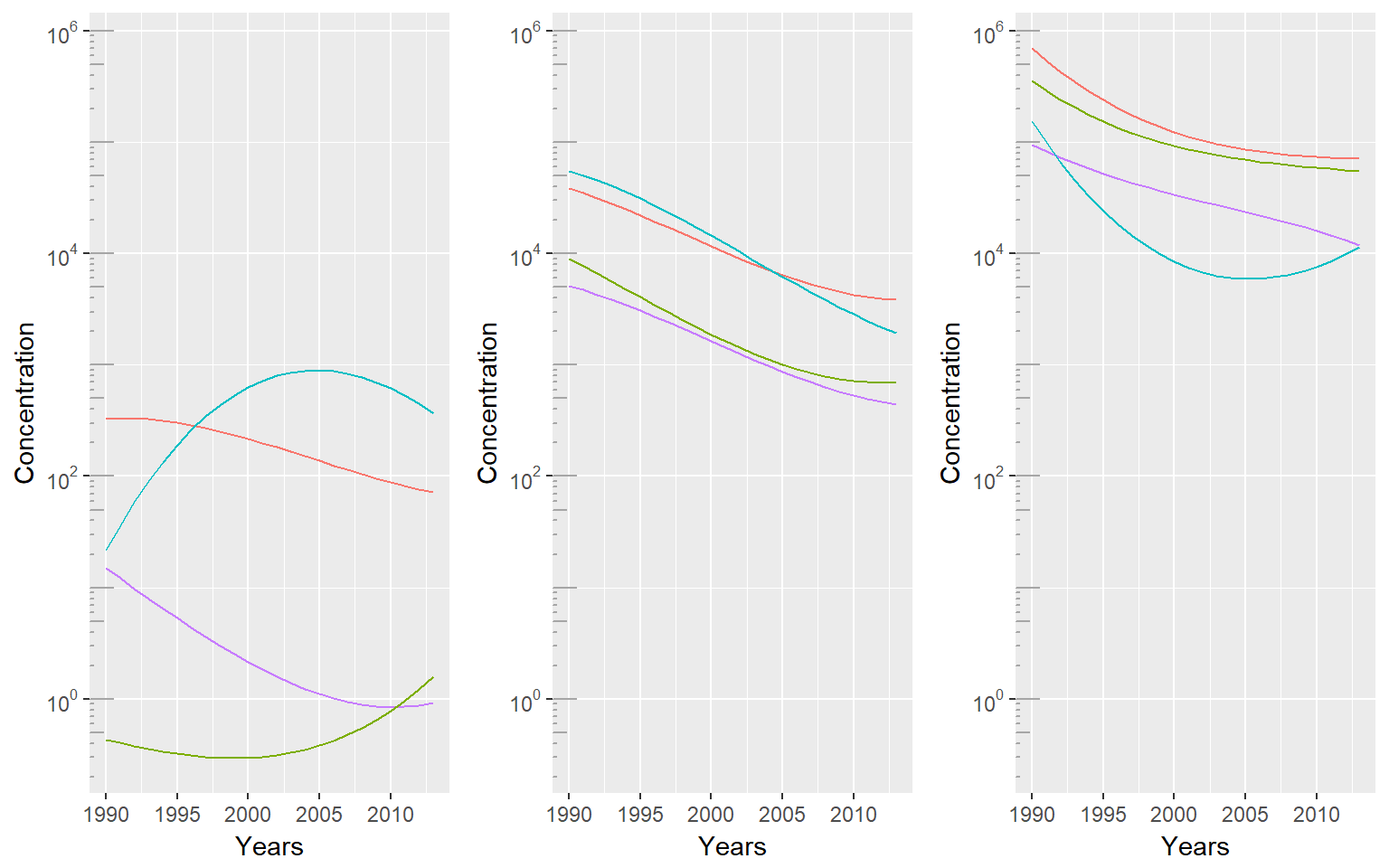
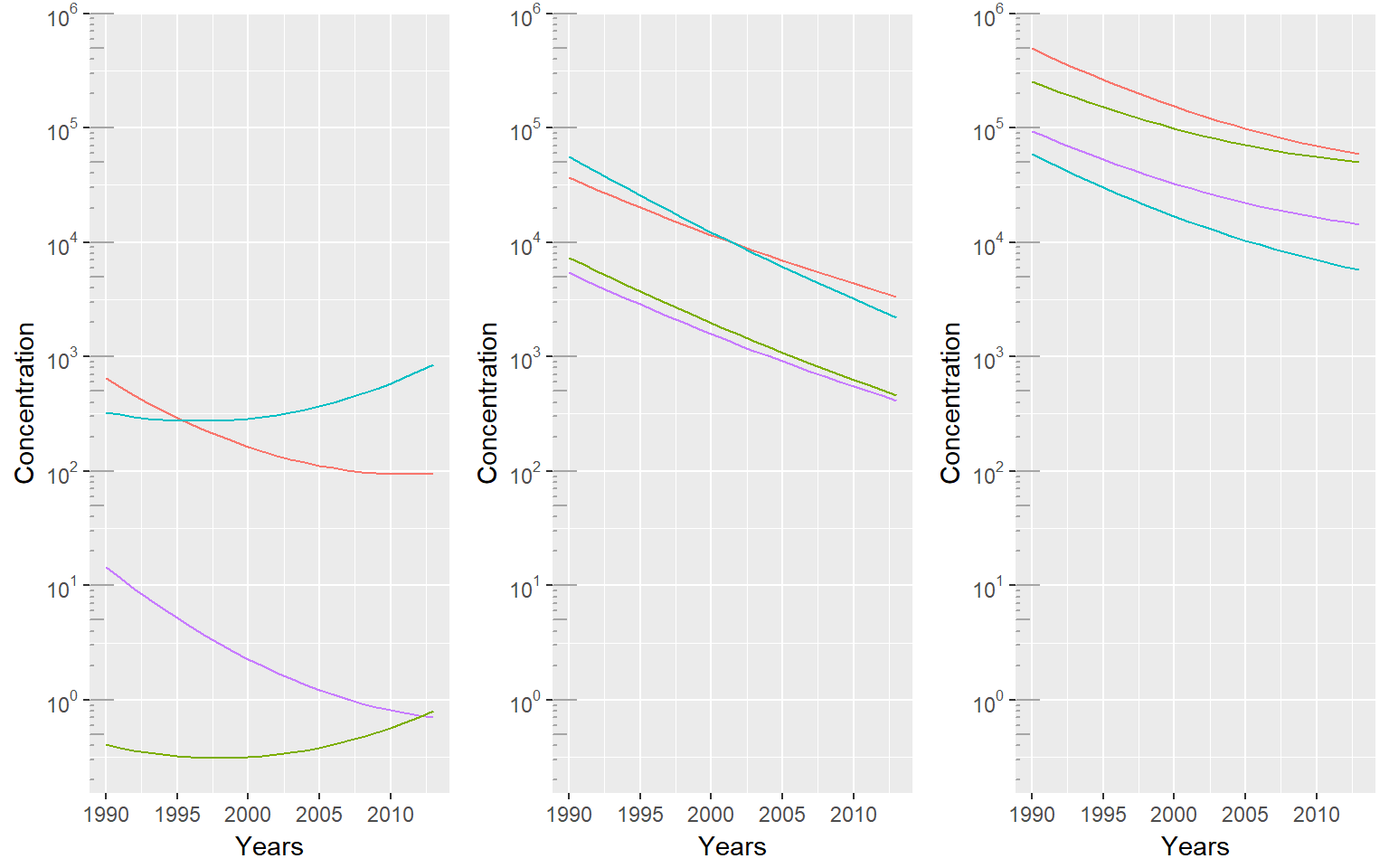
added_gif

diff --git a/docs/4-organization.html b/docs/4-organization.html
@@ -93,10 +93,10 @@
 </ul></li>
 <li class="chapter" data-level="4" data-path="4-organization.html"><a href="4-organization.html"><i class="fa fa-check"></i><b>4</b> Results</a><ul>
 <li class="chapter" data-level="4.1" data-path="4-organization.html"><a href="4-organization.html#toxicity-trends"><i class="fa fa-check"></i><b>4.1</b> Toxicity Trends</a></li>
-<li class="chapter" data-level="4.2" data-path="4-organization.html"><a href="4-organization.html#trends-in-minority-toxicity-burden"><i class="fa fa-check"></i><b>4.2</b> Trends in Minority Toxicity Burden</a></li>
-<li class="chapter" data-level="4.3" data-path="4-organization.html"><a href="4-organization.html#simulating-changes"><i class="fa fa-check"></i><b>4.3</b> Simulating Changes</a></li>
-<li class="chapter" data-level="4.4" data-path="4-organization.html"><a href="4-organization.html#interacting-risk-cases"><i class="fa fa-check"></i><b>4.4</b> Interacting Risk Cases</a></li>
-<li class="chapter" data-level="4.5" data-path="4-organization.html"><a href="4-organization.html#geographic-changes-in-exposure"><i class="fa fa-check"></i><b>4.5</b> Geographic Changes in Exposure</a></li>
+<li class="chapter" data-level="4.2" data-path="4-organization.html"><a href="4-organization.html#geography-of-toxicity-trends"><i class="fa fa-check"></i><b>4.2</b> Geography of Toxicity Trends</a></li>
+<li class="chapter" data-level="4.3" data-path="4-organization.html"><a href="4-organization.html#trends-in-minority-toxicity-burden"><i class="fa fa-check"></i><b>4.3</b> Trends in Minority Toxicity Burden</a></li>
+<li class="chapter" data-level="4.4" data-path="4-organization.html"><a href="4-organization.html#simulating-changes"><i class="fa fa-check"></i><b>4.4</b> Simulating Changes</a></li>
+<li class="chapter" data-level="4.5" data-path="4-organization.html"><a href="4-organization.html#interacting-risk-cases"><i class="fa fa-check"></i><b>4.5</b> Interacting Risk Cases</a></li>
 <li class="chapter" data-level="4.6" data-path="4-organization.html"><a href="4-organization.html#quantile-regression"><i class="fa fa-check"></i><b>4.6</b> Quantile Regression</a></li>
 </ul></li>
 <li class="appendix"><span><b>Appendix</b></span></li>
@@ -139,8 +139,18 @@
 <p>Many of the locations that arise as especially toxic in the data are assuredly so. High Point, NC is consistently one of the most toxic tracts in the early 2000’s, as confirmed by <a href="https://cfpub.epa.gov/si/si_public_record_Report.cfm?dirEntryID=45198">EPA reports</a> identifying it as a location prime for testing toxicity abatement measures. Tracts outside of Salt Lake City commonly known for acting as <a href="http://www.nytimes.com/2002/10/20/us/utah-county-s-toxic-tradition-is-under-threat.html">dumping grounds</a> are consistently ranked as toxic in the early 2000’s. Mobile, AL, whose <a href="https://19january2017snapshot.epa.gov/enforcement/case-summary-epa-funded-sites-and-communities-chemtura-bankruptcy-settlements_.html#stauffer">3 superfund sites</a> were proposed in the early 1990’s, routinely ranks as toxic over that time period.</p>
 <p>On the other side of the coin, there are many known toxic events and locations that fail to ever reach the top 5% of toxic tracts, of which Flint, MI, and the Houston major superfund site are good examples.</p>
 </div>
+<div id="geography-of-toxicity-trends" class="section level2">
+<h2><span class="header-section-number">4.2</span> Geography of Toxicity Trends</h2>
+<p>Toxic exposure has been changing dramatically in the US, but the trends it follows have remained similar. In the gif below, we show toxicity across the US from 2010 to 2014.</p>
+<div class="figure">
+<img src="https://media.giphy.com/media/vFKqnCdLPNOKc/giphy.gif" alt="Gif of toxicity in America from 2010 to 2014." />
+<p class="caption">Gif of toxicity in America from 2010 to 2014.</p>
+</div>
+<p>Though we see impressive reductions over that time, the overall geographic trends of toxicity remain constant. Each region maintains its overall toxicity range, and toxicity wells appear to stay constant. Given the infrastructure required to build up manufacturing, a large part of TRI, the consistency across time is reasonable.</p>
+<p>The toxicity wells we see in the image are interestingly familiar.</p>
+</div>
 <div id="trends-in-minority-toxicity-burden" class="section level2">
-<h2><span class="header-section-number">4.2</span> Trends in Minority Toxicity Burden</h2>
+<h2><span class="header-section-number">4.3</span> Trends in Minority Toxicity Burden</h2>
 <p>Using data at the tract level, we assign the tract concentration to the counts of each group in the tract. By assigning toxicity for each tract, we build four distributions: toxicity for the white population, toxicity for the black population, toxicity for the hispanic population, and toxicity for all other groups. In this case, hispanic is not a mutually exclusive group, and the race groups may contain ethnically hispanic individuals.</p>
 <p>For each of the distributions, the 5th, 50th, and 95th percentiles are calculated for each time period. In the case of toxicity, the 5th and 95th percentiles are especially of interest, as they represent the non-polluted neighborhoods that each group has access to and the level of pollution trap that each group falls in to. Clearly, for all variables, lower toxicity is better.</p>
 <p>Plots describing the trends for each quantile are shown below. On the left is the log toxicity for the quantile over time. On the right is the toxicity minorities experience relative to the white distribution. These values are computed as the net toxicity of the given quantile for a group divided by the net toxicity of the quantile for the white distribution.</p>
@@ -157,7 +167,7 @@
 <p>In essense we are seeing the “rich getting richer” phenomenon in the 5th percentile of the white distribution. Those that already have access to clean communities are seeing improved toxicity, with those who weren’t already in clean communities unable to catch up, and locked out of the lowest toxicity communities.</p>
 </div>
 <div id="simulating-changes" class="section level2">
-<h2><span class="header-section-number">4.3</span> Simulating Changes</h2>
+<h2><span class="header-section-number">4.4</span> Simulating Changes</h2>
 <p>Being able to build the true distributions that each group experiences over time allows us to see how relative toxicity burden has changed over time. Yet the changes presented in the analysis above are solely the net changes experienced by each group. Given minorities are more likely to be in the right tail of the distribution, any compression of that tail would result in both a net improvement for minority groups and a relative improvement to the white distribution. Those changes, though positive, don’t represent a true change in the position minorities hold in the distribution, as they are still stuck in the percentile of the distribution, but the distribution has shifted favorably.</p>
 <p>To find how much of the change is attributable to changes of minority position, we use the simulation method discussed in section 3. By holding the percentile of each individual constant, but applying it to the new distribution, we can see what the minority distribution would like if the minority position within the overall distribution had not changed.</p>
 <p>Improvement will only represent true environmental justice when all groups are equally likely to be represented at any given quantile, not when the distribution is compressed enough that differences are negligible.</p>
@@ -172,111 +182,14 @@
 <p><img src="thesis_files/figure-html/densityplots-1.png" width="960" style="display: block; margin: auto;" /></p>
 </div>
 <div id="interacting-risk-cases" class="section level2">
-<h2><span class="header-section-number">4.4</span> Interacting Risk Cases</h2>
-</div>
-<div id="geographic-changes-in-exposure" class="section level2">
-<h2><span class="header-section-number">4.5</span> Geographic Changes in Exposure</h2>
+<h2><span class="header-section-number">4.5</span> Interacting Risk Cases</h2>
 </div>
 <div id="quantile-regression" class="section level2">
 <h2><span class="header-section-number">4.6</span> Quantile Regression</h2>
-<pre><code>      tau= 0.05 tau= 0.50 tau= 0.95
-1   2.800828831  8.718791 11.632489
-2   2.554100344  8.589618 11.522855
-3   2.318131772  8.462154 11.415381
-4   2.092923116  8.336401 11.310067
-5   1.878474376  8.212357 11.206913
-6   1.674785552  8.090024 11.105920
-7   1.481856644  7.969401 11.007087
-8   1.299687652  7.850487 10.910414
-9   1.128278575  7.733284 10.815901
-10  0.967629415  7.617790 10.723548
-11  0.817740170  7.504007 10.633355
-12  0.678610841  7.391933 10.545323
-13  0.550241428  7.281570 10.459450
-14  0.432631931  7.172916 10.375738
-15  0.325782349  7.065972 10.294186
-16  0.229692684  6.960739 10.214794
-17  0.144362934  6.857215 10.137562
-18  0.069793101  6.755402 10.062490
-19  0.005983183  6.655298  9.989579
-20 -0.047066819  6.556904  9.918827
-21 -0.089356905  6.460220  9.850236
-22 -0.120887076  6.365247  9.783805
-23 -0.141657330  6.271983  9.719534
-24 -0.151667669  6.180429  9.657423
-25  5.653440531 10.143539 12.972221
-26  5.616416124 10.032272 12.759556
-27  5.575938257  9.922037 12.558581
-28  5.532006932  9.812836 12.369297
-29  5.484622148  9.704667 12.191705
-30  5.433783904  9.597531 12.025803
-31  5.379492201  9.491428 11.871593
-32  5.321747040  9.386357 11.729074
-33  5.260548419  9.282320 11.598245
-34  5.195896339  9.179316 11.479108
-35  5.127790800  9.077344 11.371662
-36  5.056231802  8.976405 11.275907
-37  4.981219345  8.876499 11.191844
-38  4.902753429  8.777626 11.119471
-39  4.820834054  8.679786 11.058789
-40  4.735461219  8.582978 11.009799
-41  4.646634926  8.487204 10.972499
-42  4.554355174  8.392462 10.946891
-43  4.458621962  8.298753 10.932974
-44  4.359435292  8.206077 10.930747
-45  4.256795162  8.114434 10.940212
-46  4.150701573  8.023824 10.961368
-47  4.041154525  7.934246 10.994215
-48  3.928154018  7.845701 11.038754
-49 -0.735321766  8.941427 12.639729
-50 -0.835040104  8.788694 12.445432
-51 -0.918782602  8.638778 12.262263
-52 -0.986549257  8.491681 12.090221
-53 -1.038340072  8.347401 11.929308
-54 -1.074155044  8.205939 11.779522
-55 -1.093994176  8.067295 11.640864
-56 -1.097857465  7.931469 11.513334
-57 -1.085744914  7.798461 11.396932
-58 -1.057656521  7.668271 11.291658
-59 -1.013592286  7.540899 11.197512
-60 -0.953552210  7.416345 11.114493
-61 -0.877536293  7.294608 11.042603
-62 -0.785544534  7.175690 10.981840
-63 -0.677576933  7.059589 10.932206
-64 -0.553633492  6.946306 10.893699
-65 -0.413714209  6.835842 10.866320
-66 -0.257819084  6.728195 10.850069
-67 -0.085948118  6.623366 10.844946
-68  0.101898690  6.521355 10.850950
-69  0.305721339  6.422162 10.868083
-70  0.525519829  6.325786 10.896344
-71  0.761294161  6.232229 10.935732
-72  1.013044335  6.141489 10.986248
-73  3.561941907  9.854712 11.968528
-74  3.817538224  9.750139 11.551432
-75  4.055000182  9.643074 11.161307
-76  4.274327782  9.533516 10.798153
-77  4.475521024  9.421464 10.461970
-78  4.658579907  9.306921 10.152759
-79  4.823504433  9.189884  9.870519
-80  4.970294601  9.070354  9.615251
-81  5.098950411  8.948332  9.386953
-82  5.209471863  8.823817  9.185627
-83  5.301858957  8.696809  9.011272
-84  5.376111692  8.567308  8.863888
-85  5.432230070  8.435314  8.743476
-86  5.470214089  8.300828  8.650034
-87  5.490063751  8.163849  8.583564
-88  5.491779054  8.024376  8.544065
-89  5.475360000  7.882411  8.531538
-90  5.440806587  7.737954  8.545982
-91  5.388118817  7.591003  8.587397
-92  5.317296688  7.441559  8.655783
-93  5.228340201  7.289623  8.751140
-94  5.121249356  7.135194  8.873469
-95  4.996024154  6.978272  9.022769
-96  4.852664593  6.818857  9.199040</code></pre>
-<p><img src="thesis_files/figure-html/quantreg-1.png" width="768" style="display: block; margin: auto;" /><img src="thesis_files/figure-html/quantreg-2.png" width="768" style="display: block; margin: auto;" /><img src="thesis_files/figure-html/quantreg-3.png" width="768" style="display: block; margin: auto;" /><img src="thesis_files/figure-html/quantreg-4.png" width="768" style="display: block; margin: auto;" /><img src="thesis_files/figure-html/quantreg-5.png" width="768" style="display: block; margin: auto;" /></p>
+<p>Previous sections have focused on teasing apart patterns in the vast amounts of data we have, attempting to find differences in toxicity experienced by minority groups. We find large differences in the toxicity experienced, but may be limited by the choices in division we make. Given we only investigate the variables that we suspect may have a relationship with toxicity, there are likley patterns in teh data that aren’t being examined.</p>
+<p>In order to better tease out relationships in the data, and for easy interpretation of coefficients, a functionally similar analysis can be done with quantile regression, focusing on the computed parameters as indicators of the differences in experienced toxicity.</p>
+<p>To illustrate the form of model this could take, we build preliminary quantile regression models on the 5th, 50th, and 95th percentiles of the toxicity distribution. To predict log toxicity, we use the year, demographic information, population density as well as quadratic terms. The predictions shown for each race or ethnicity group are fairly consistent with the results shown above. <img src="thesis_files/figure-html/quantreg-1.png" width="768" style="display: block; margin: auto;" /></p>
+<p>By adding additional block level data to this regression and testing model fit more rigorously, we may be able to discuss the magnitude of toxicity differences that are attributable to race, and will be more informed on the other factors that hold importance in predicting toxicity. Above sections address the empirical reduction in toxicity and the reduction amount attributable to shifts of minority placement in the distribution. An approach able to take it a step further and find the differences attributable to race would add significant value.</p>
 
 </div>
 </div>

diff --git a/docs/A-annotated-bibliography.html b/docs/A-annotated-bibliography.html
@@ -93,10 +93,10 @@
 </ul></li>
 <li class="chapter" data-level="4" data-path="4-organization.html"><a href="4-organization.html"><i class="fa fa-check"></i><b>4</b> Results</a><ul>
 <li class="chapter" data-level="4.1" data-path="4-organization.html"><a href="4-organization.html#toxicity-trends"><i class="fa fa-check"></i><b>4.1</b> Toxicity Trends</a></li>
-<li class="chapter" data-level="4.2" data-path="4-organization.html"><a href="4-organization.html#trends-in-minority-toxicity-burden"><i class="fa fa-check"></i><b>4.2</b> Trends in Minority Toxicity Burden</a></li>
-<li class="chapter" data-level="4.3" data-path="4-organization.html"><a href="4-organization.html#simulating-changes"><i class="fa fa-check"></i><b>4.3</b> Simulating Changes</a></li>
-<li class="chapter" data-level="4.4" data-path="4-organization.html"><a href="4-organization.html#interacting-risk-cases"><i class="fa fa-check"></i><b>4.4</b> Interacting Risk Cases</a></li>
-<li class="chapter" data-level="4.5" data-path="4-organization.html"><a href="4-organization.html#geographic-changes-in-exposure"><i class="fa fa-check"></i><b>4.5</b> Geographic Changes in Exposure</a></li>
+<li class="chapter" data-level="4.2" data-path="4-organization.html"><a href="4-organization.html#geography-of-toxicity-trends"><i class="fa fa-check"></i><b>4.2</b> Geography of Toxicity Trends</a></li>
+<li class="chapter" data-level="4.3" data-path="4-organization.html"><a href="4-organization.html#trends-in-minority-toxicity-burden"><i class="fa fa-check"></i><b>4.3</b> Trends in Minority Toxicity Burden</a></li>
+<li class="chapter" data-level="4.4" data-path="4-organization.html"><a href="4-organization.html#simulating-changes"><i class="fa fa-check"></i><b>4.4</b> Simulating Changes</a></li>
+<li class="chapter" data-level="4.5" data-path="4-organization.html"><a href="4-organization.html#interacting-risk-cases"><i class="fa fa-check"></i><b>4.5</b> Interacting Risk Cases</a></li>
 <li class="chapter" data-level="4.6" data-path="4-organization.html"><a href="4-organization.html#quantile-regression"><i class="fa fa-check"></i><b>4.6</b> Quantile Regression</a></li>
 </ul></li>
 <li class="appendix"><span><b>Appendix</b></span></li>
@@ -184,7 +184,14 @@
 <li>Finds large difference in the toxicity experienced by black individuals.</li>
 <li>Higher incomes are associated with lower toxicity in the destinations of individuals, especially for black and hispanic individuals, who only appear to move to lower toxicity areas when they have especially high incomes.</li>
 </ul></li>
-<li><p>Pais J., Crowder K. &amp; Downey L. (2013). Unequal Trajectories: Racial and Class Differences in Residential Exposure to Industrial Hazard. <em>Social Forces, 92</em>(3). pp. 1189-1215</p></li>
+<li>Pais J., Crowder K. &amp; Downey L. (2013). Unequal Trajectories: Racial and Class Differences in Residential Exposure to Industrial Hazard. <em>Social Forces, 92</em>(3). pp. 1189-1215
+<ul>
+<li>Focuses on differences via different residential sorting and toxic facility siting.</li>
+<li>Statistical methodology used is a latent class growth analysis.</li>
+<li>Data used is longitudinal xyz and neighborhood level pollution.</li>
+<li>Found large difference in pollution exposure by race. Also found that minorities were more likely to experience persistance in being highly exposed.</li>
+<li>Examined how that finding relates to having access to the suburbs, and found that even controlling for suburban attainment, economic status, and ability to move, there was still a racial difference.</li>
+</ul></li>
 <li>Szasz, A., &amp; Meuser, M. (1997). Environmental inequalities: Literature review and proposals for new directions in research and theory. <em>Current sociology, 45</em>(3), 99-120.
 <ul>
 <li>Environmental justice work brought the “tactics and rhetoric of the Civil Rights movement to bear on an environmental issue”</li>

diff --git a/docs/1-env-justice.html b/docs/1-env-justice.html
@@ -93,10 +93,10 @@
 </ul></li>
 <li class="chapter" data-level="4" data-path="4-organization.html"><a href="4-organization.html"><i class="fa fa-check"></i><b>4</b> Results</a><ul>
 <li class="chapter" data-level="4.1" data-path="4-organization.html"><a href="4-organization.html#toxicity-trends"><i class="fa fa-check"></i><b>4.1</b> Toxicity Trends</a></li>
-<li class="chapter" data-level="4.2" data-path="4-organization.html"><a href="4-organization.html#trends-in-minority-toxicity-burden"><i class="fa fa-check"></i><b>4.2</b> Trends in Minority Toxicity Burden</a></li>
-<li class="chapter" data-level="4.3" data-path="4-organization.html"><a href="4-organization.html#simulating-changes"><i class="fa fa-check"></i><b>4.3</b> Simulating Changes</a></li>
-<li class="chapter" data-level="4.4" data-path="4-organization.html"><a href="4-organization.html#interacting-risk-cases"><i class="fa fa-check"></i><b>4.4</b> Interacting Risk Cases</a></li>
-<li class="chapter" data-level="4.5" data-path="4-organization.html"><a href="4-organization.html#geographic-changes-in-exposure"><i class="fa fa-check"></i><b>4.5</b> Geographic Changes in Exposure</a></li>
+<li class="chapter" data-level="4.2" data-path="4-organization.html"><a href="4-organization.html#geography-of-toxicity-trends"><i class="fa fa-check"></i><b>4.2</b> Geography of Toxicity Trends</a></li>
+<li class="chapter" data-level="4.3" data-path="4-organization.html"><a href="4-organization.html#trends-in-minority-toxicity-burden"><i class="fa fa-check"></i><b>4.3</b> Trends in Minority Toxicity Burden</a></li>
+<li class="chapter" data-level="4.4" data-path="4-organization.html"><a href="4-organization.html#simulating-changes"><i class="fa fa-check"></i><b>4.4</b> Simulating Changes</a></li>
+<li class="chapter" data-level="4.5" data-path="4-organization.html"><a href="4-organization.html#interacting-risk-cases"><i class="fa fa-check"></i><b>4.5</b> Interacting Risk Cases</a></li>
 <li class="chapter" data-level="4.6" data-path="4-organization.html"><a href="4-organization.html#quantile-regression"><i class="fa fa-check"></i><b>4.6</b> Quantile Regression</a></li>
 </ul></li>
 <li class="appendix"><span><b>Appendix</b></span></li>

diff --git a/docs/2-data.html b/docs/2-data.html
@@ -93,10 +93,10 @@
 </ul></li>
 <li class="chapter" data-level="4" data-path="4-organization.html"><a href="4-organization.html"><i class="fa fa-check"></i><b>4</b> Results</a><ul>
 <li class="chapter" data-level="4.1" data-path="4-organization.html"><a href="4-organization.html#toxicity-trends"><i class="fa fa-check"></i><b>4.1</b> Toxicity Trends</a></li>
-<li class="chapter" data-level="4.2" data-path="4-organization.html"><a href="4-organization.html#trends-in-minority-toxicity-burden"><i class="fa fa-check"></i><b>4.2</b> Trends in Minority Toxicity Burden</a></li>
-<li class="chapter" data-level="4.3" data-path="4-organization.html"><a href="4-organization.html#simulating-changes"><i class="fa fa-check"></i><b>4.3</b> Simulating Changes</a></li>
-<li class="chapter" data-level="4.4" data-path="4-organization.html"><a href="4-organization.html#interacting-risk-cases"><i class="fa fa-check"></i><b>4.4</b> Interacting Risk Cases</a></li>
-<li class="chapter" data-level="4.5" data-path="4-organization.html"><a href="4-organization.html#geographic-changes-in-exposure"><i class="fa fa-check"></i><b>4.5</b> Geographic Changes in Exposure</a></li>
+<li class="chapter" data-level="4.2" data-path="4-organization.html"><a href="4-organization.html#geography-of-toxicity-trends"><i class="fa fa-check"></i><b>4.2</b> Geography of Toxicity Trends</a></li>
+<li class="chapter" data-level="4.3" data-path="4-organization.html"><a href="4-organization.html#trends-in-minority-toxicity-burden"><i class="fa fa-check"></i><b>4.3</b> Trends in Minority Toxicity Burden</a></li>
+<li class="chapter" data-level="4.4" data-path="4-organization.html"><a href="4-organization.html#simulating-changes"><i class="fa fa-check"></i><b>4.4</b> Simulating Changes</a></li>
+<li class="chapter" data-level="4.5" data-path="4-organization.html"><a href="4-organization.html#interacting-risk-cases"><i class="fa fa-check"></i><b>4.5</b> Interacting Risk Cases</a></li>
 <li class="chapter" data-level="4.6" data-path="4-organization.html"><a href="4-organization.html#quantile-regression"><i class="fa fa-check"></i><b>4.6</b> Quantile Regression</a></li>
 </ul></li>
 <li class="appendix"><span><b>Appendix</b></span></li>

diff --git a/docs/3-ref-labels.html b/docs/3-ref-labels.html
@@ -93,10 +93,10 @@
 </ul></li>
 <li class="chapter" data-level="4" data-path="4-organization.html"><a href="4-organization.html"><i class="fa fa-check"></i><b>4</b> Results</a><ul>
 <li class="chapter" data-level="4.1" data-path="4-organization.html"><a href="4-organization.html#toxicity-trends"><i class="fa fa-check"></i><b>4.1</b> Toxicity Trends</a></li>
-<li class="chapter" data-level="4.2" data-path="4-organization.html"><a href="4-organization.html#trends-in-minority-toxicity-burden"><i class="fa fa-check"></i><b>4.2</b> Trends in Minority Toxicity Burden</a></li>
-<li class="chapter" data-level="4.3" data-path="4-organization.html"><a href="4-organization.html#simulating-changes"><i class="fa fa-check"></i><b>4.3</b> Simulating Changes</a></li>
-<li class="chapter" data-level="4.4" data-path="4-organization.html"><a href="4-organization.html#interacting-risk-cases"><i class="fa fa-check"></i><b>4.4</b> Interacting Risk Cases</a></li>
-<li class="chapter" data-level="4.5" data-path="4-organization.html"><a href="4-organization.html#geographic-changes-in-exposure"><i class="fa fa-check"></i><b>4.5</b> Geographic Changes in Exposure</a></li>
+<li class="chapter" data-level="4.2" data-path="4-organization.html"><a href="4-organization.html#geography-of-toxicity-trends"><i class="fa fa-check"></i><b>4.2</b> Geography of Toxicity Trends</a></li>
+<li class="chapter" data-level="4.3" data-path="4-organization.html"><a href="4-organization.html#trends-in-minority-toxicity-burden"><i class="fa fa-check"></i><b>4.3</b> Trends in Minority Toxicity Burden</a></li>
+<li class="chapter" data-level="4.4" data-path="4-organization.html"><a href="4-organization.html#simulating-changes"><i class="fa fa-check"></i><b>4.4</b> Simulating Changes</a></li>
+<li class="chapter" data-level="4.5" data-path="4-organization.html"><a href="4-organization.html#interacting-risk-cases"><i class="fa fa-check"></i><b>4.5</b> Interacting Risk Cases</a></li>
 <li class="chapter" data-level="4.6" data-path="4-organization.html"><a href="4-organization.html#quantile-regression"><i class="fa fa-check"></i><b>4.6</b> Quantile Regression</a></li>
 </ul></li>
 <li class="appendix"><span><b>Appendix</b></span></li>

diff --git a/docs/B-data-sources.html b/docs/B-data-sources.html
@@ -93,10 +93,10 @@
 </ul></li>
 <li class="chapter" data-level="4" data-path="4-organization.html"><a href="4-organization.html"><i class="fa fa-check"></i><b>4</b> Results</a><ul>
 <li class="chapter" data-level="4.1" data-path="4-organization.html"><a href="4-organization.html#toxicity-trends"><i class="fa fa-check"></i><b>4.1</b> Toxicity Trends</a></li>
-<li class="chapter" data-level="4.2" data-path="4-organization.html"><a href="4-organization.html#trends-in-minority-toxicity-burden"><i class="fa fa-check"></i><b>4.2</b> Trends in Minority Toxicity Burden</a></li>
-<li class="chapter" data-level="4.3" data-path="4-organization.html"><a href="4-organization.html#simulating-changes"><i class="fa fa-check"></i><b>4.3</b> Simulating Changes</a></li>
-<li class="chapter" data-level="4.4" data-path="4-organization.html"><a href="4-organization.html#interacting-risk-cases"><i class="fa fa-check"></i><b>4.4</b> Interacting Risk Cases</a></li>
-<li class="chapter" data-level="4.5" data-path="4-organization.html"><a href="4-organization.html#geographic-changes-in-exposure"><i class="fa fa-check"></i><b>4.5</b> Geographic Changes in Exposure</a></li>
+<li class="chapter" data-level="4.2" data-path="4-organization.html"><a href="4-organization.html#geography-of-toxicity-trends"><i class="fa fa-check"></i><b>4.2</b> Geography of Toxicity Trends</a></li>
+<li class="chapter" data-level="4.3" data-path="4-organization.html"><a href="4-organization.html#trends-in-minority-toxicity-burden"><i class="fa fa-check"></i><b>4.3</b> Trends in Minority Toxicity Burden</a></li>
+<li class="chapter" data-level="4.4" data-path="4-organization.html"><a href="4-organization.html#simulating-changes"><i class="fa fa-check"></i><b>4.4</b> Simulating Changes</a></li>
+<li class="chapter" data-level="4.5" data-path="4-organization.html"><a href="4-organization.html#interacting-risk-cases"><i class="fa fa-check"></i><b>4.5</b> Interacting Risk Cases</a></li>
 <li class="chapter" data-level="4.6" data-path="4-organization.html"><a href="4-organization.html#quantile-regression"><i class="fa fa-check"></i><b>4.6</b> Quantile Regression</a></li>
 </ul></li>
 <li class="appendix"><span><b>Appendix</b></span></li>

diff --git a/docs/C-ecological-fallacy.html b/docs/C-ecological-fallacy.html
@@ -93,10 +93,10 @@
 </ul></li>
 <li class="chapter" data-level="4" data-path="4-organization.html"><a href="4-organization.html"><i class="fa fa-check"></i><b>4</b> Results</a><ul>
 <li class="chapter" data-level="4.1" data-path="4-organization.html"><a href="4-organization.html#toxicity-trends"><i class="fa fa-check"></i><b>4.1</b> Toxicity Trends</a></li>
-<li class="chapter" data-level="4.2" data-path="4-organization.html"><a href="4-organization.html#trends-in-minority-toxicity-burden"><i class="fa fa-check"></i><b>4.2</b> Trends in Minority Toxicity Burden</a></li>
-<li class="chapter" data-level="4.3" data-path="4-organization.html"><a href="4-organization.html#simulating-changes"><i class="fa fa-check"></i><b>4.3</b> Simulating Changes</a></li>
-<li class="chapter" data-level="4.4" data-path="4-organization.html"><a href="4-organization.html#interacting-risk-cases"><i class="fa fa-check"></i><b>4.4</b> Interacting Risk Cases</a></li>
-<li class="chapter" data-level="4.5" data-path="4-organization.html"><a href="4-organization.html#geographic-changes-in-exposure"><i class="fa fa-check"></i><b>4.5</b> Geographic Changes in Exposure</a></li>
+<li class="chapter" data-level="4.2" data-path="4-organization.html"><a href="4-organization.html#geography-of-toxicity-trends"><i class="fa fa-check"></i><b>4.2</b> Geography of Toxicity Trends</a></li>
+<li class="chapter" data-level="4.3" data-path="4-organization.html"><a href="4-organization.html#trends-in-minority-toxicity-burden"><i class="fa fa-check"></i><b>4.3</b> Trends in Minority Toxicity Burden</a></li>
+<li class="chapter" data-level="4.4" data-path="4-organization.html"><a href="4-organization.html#simulating-changes"><i class="fa fa-check"></i><b>4.4</b> Simulating Changes</a></li>
+<li class="chapter" data-level="4.5" data-path="4-organization.html"><a href="4-organization.html#interacting-risk-cases"><i class="fa fa-check"></i><b>4.5</b> Interacting Risk Cases</a></li>
 <li class="chapter" data-level="4.6" data-path="4-organization.html"><a href="4-organization.html#quantile-regression"><i class="fa fa-check"></i><b>4.6</b> Quantile Regression</a></li>
 </ul></li>
 <li class="appendix"><span><b>Appendix</b></span></li>

diff --git a/docs/index.html b/docs/index.html
@@ -93,10 +93,10 @@
 </ul></li>
 <li class="chapter" data-level="4" data-path="4-organization.html"><a href="4-organization.html"><i class="fa fa-check"></i><b>4</b> Results</a><ul>
 <li class="chapter" data-level="4.1" data-path="4-organization.html"><a href="4-organization.html#toxicity-trends"><i class="fa fa-check"></i><b>4.1</b> Toxicity Trends</a></li>
-<li class="chapter" data-level="4.2" data-path="4-organization.html"><a href="4-organization.html#trends-in-minority-toxicity-burden"><i class="fa fa-check"></i><b>4.2</b> Trends in Minority Toxicity Burden</a></li>
-<li class="chapter" data-level="4.3" data-path="4-organization.html"><a href="4-organization.html#simulating-changes"><i class="fa fa-check"></i><b>4.3</b> Simulating Changes</a></li>
-<li class="chapter" data-level="4.4" data-path="4-organization.html"><a href="4-organization.html#interacting-risk-cases"><i class="fa fa-check"></i><b>4.4</b> Interacting Risk Cases</a></li>
-<li class="chapter" data-level="4.5" data-path="4-organization.html"><a href="4-organization.html#geographic-changes-in-exposure"><i class="fa fa-check"></i><b>4.5</b> Geographic Changes in Exposure</a></li>
+<li class="chapter" data-level="4.2" data-path="4-organization.html"><a href="4-organization.html#geography-of-toxicity-trends"><i class="fa fa-check"></i><b>4.2</b> Geography of Toxicity Trends</a></li>
+<li class="chapter" data-level="4.3" data-path="4-organization.html"><a href="4-organization.html#trends-in-minority-toxicity-burden"><i class="fa fa-check"></i><b>4.3</b> Trends in Minority Toxicity Burden</a></li>
+<li class="chapter" data-level="4.4" data-path="4-organization.html"><a href="4-organization.html#simulating-changes"><i class="fa fa-check"></i><b>4.4</b> Simulating Changes</a></li>
+<li class="chapter" data-level="4.5" data-path="4-organization.html"><a href="4-organization.html#interacting-risk-cases"><i class="fa fa-check"></i><b>4.5</b> Interacting Risk Cases</a></li>
 <li class="chapter" data-level="4.6" data-path="4-organization.html"><a href="4-organization.html#quantile-regression"><i class="fa fa-check"></i><b>4.6</b> Quantile Regression</a></li>
 </ul></li>
 <li class="appendix"><span><b>Appendix</b></span></li>

diff --git a/docs/references.html b/docs/references.html
@@ -93,10 +93,10 @@
 </ul></li>
 <li class="chapter" data-level="4" data-path="4-organization.html"><a href="4-organization.html"><i class="fa fa-check"></i><b>4</b> Results</a><ul>
 <li class="chapter" data-level="4.1" data-path="4-organization.html"><a href="4-organization.html#toxicity-trends"><i class="fa fa-check"></i><b>4.1</b> Toxicity Trends</a></li>
-<li class="chapter" data-level="4.2" data-path="4-organization.html"><a href="4-organization.html#trends-in-minority-toxicity-burden"><i class="fa fa-check"></i><b>4.2</b> Trends in Minority Toxicity Burden</a></li>
-<li class="chapter" data-level="4.3" data-path="4-organization.html"><a href="4-organization.html#simulating-changes"><i class="fa fa-check"></i><b>4.3</b> Simulating Changes</a></li>
-<li class="chapter" data-level="4.4" data-path="4-organization.html"><a href="4-organization.html#interacting-risk-cases"><i class="fa fa-check"></i><b>4.4</b> Interacting Risk Cases</a></li>
-<li class="chapter" data-level="4.5" data-path="4-organization.html"><a href="4-organization.html#geographic-changes-in-exposure"><i class="fa fa-check"></i><b>4.5</b> Geographic Changes in Exposure</a></li>
+<li class="chapter" data-level="4.2" data-path="4-organization.html"><a href="4-organization.html#geography-of-toxicity-trends"><i class="fa fa-check"></i><b>4.2</b> Geography of Toxicity Trends</a></li>
+<li class="chapter" data-level="4.3" data-path="4-organization.html"><a href="4-organization.html#trends-in-minority-toxicity-burden"><i class="fa fa-check"></i><b>4.3</b> Trends in Minority Toxicity Burden</a></li>
+<li class="chapter" data-level="4.4" data-path="4-organization.html"><a href="4-organization.html#simulating-changes"><i class="fa fa-check"></i><b>4.4</b> Simulating Changes</a></li>
+<li class="chapter" data-level="4.5" data-path="4-organization.html"><a href="4-organization.html#interacting-risk-cases"><i class="fa fa-check"></i><b>4.5</b> Interacting Risk Cases</a></li>
 <li class="chapter" data-level="4.6" data-path="4-organization.html"><a href="4-organization.html#quantile-regression"><i class="fa fa-check"></i><b>4.6</b> Quantile Regression</a></li>
 </ul></li>
 <li class="appendix"><span><b>Appendix</b></span></li>
